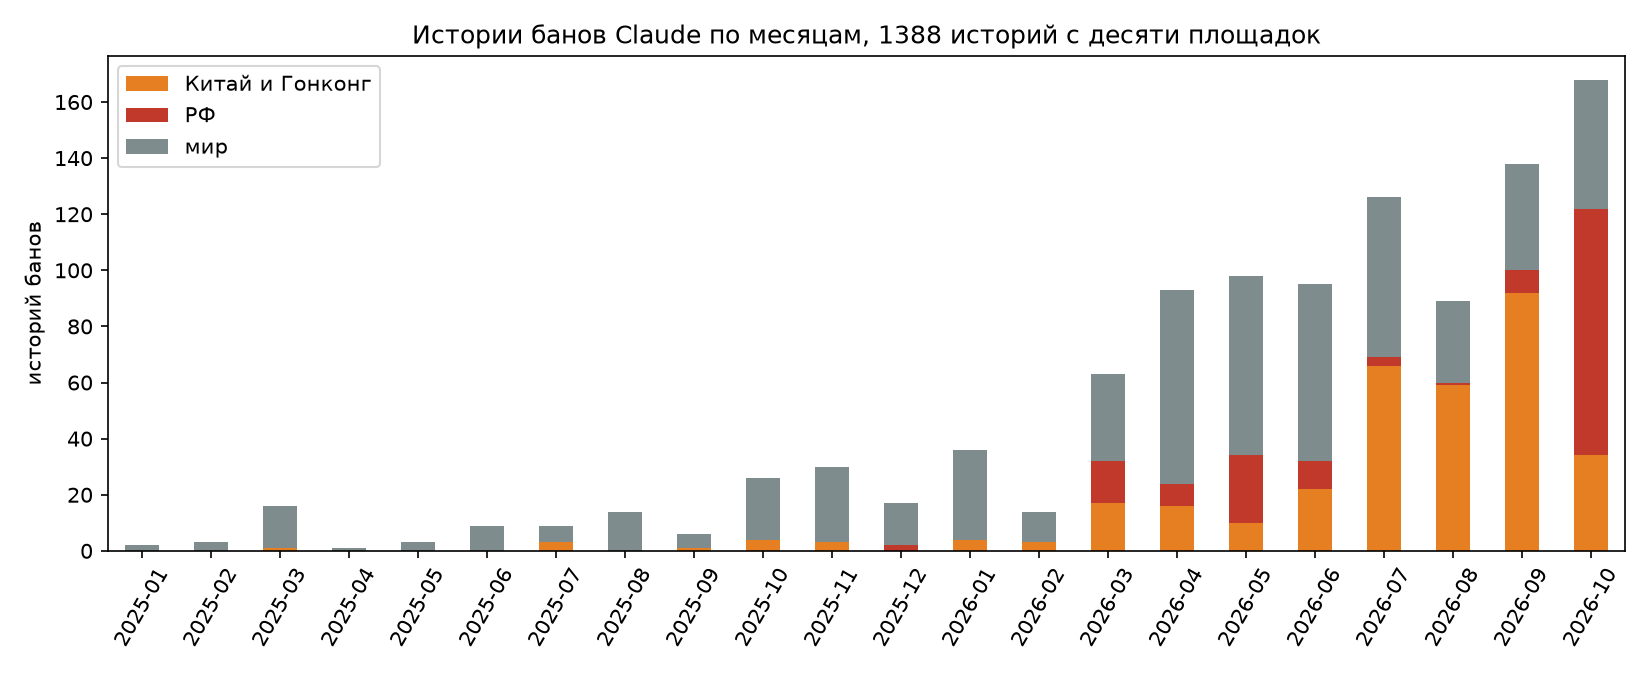
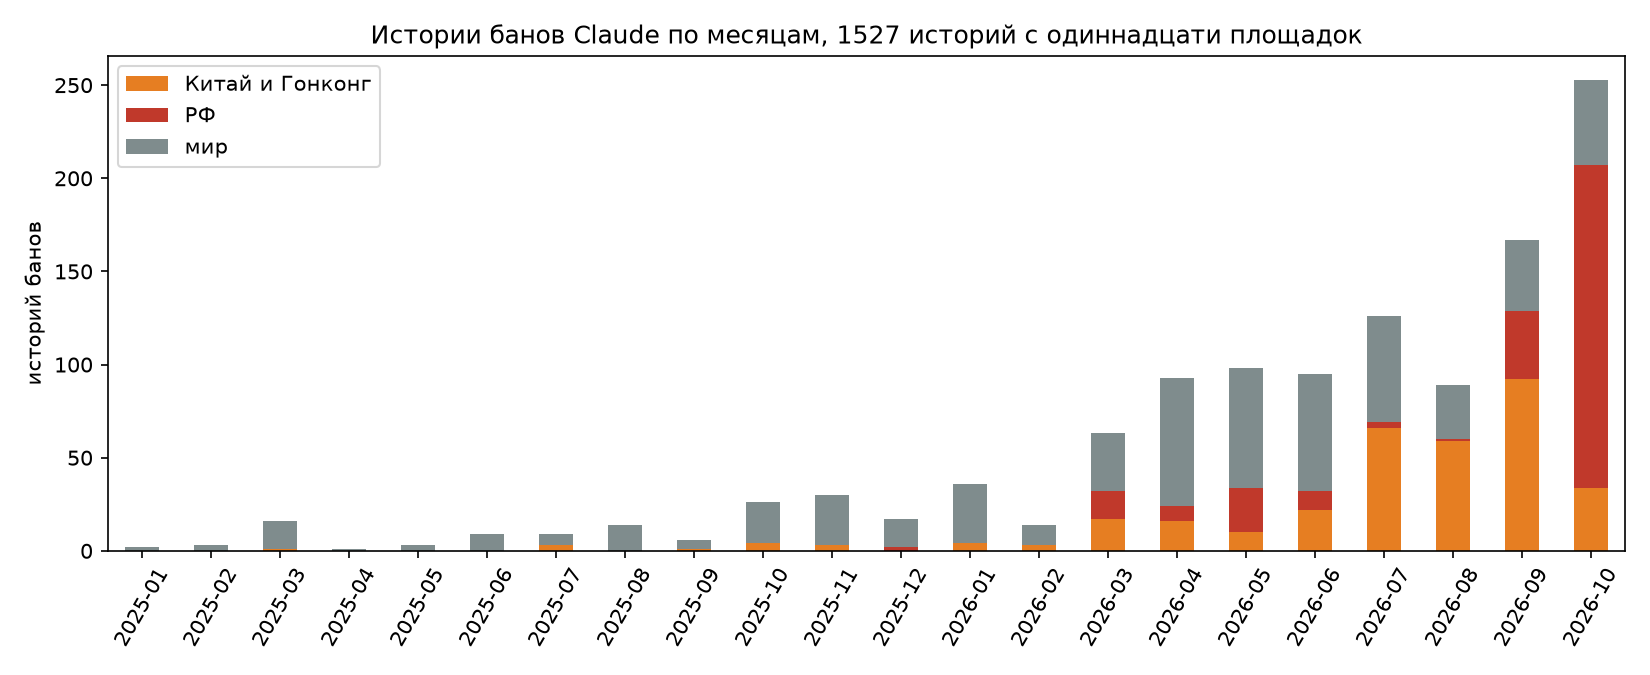
1527 историй: 22 публичных Telegram-чата и полные ветки комментариев

diff --git a/groups.py b/groups.py
@@ -138,7 +138,7 @@ ax.set_xticklabels([x.strftime("%Y-%m") for x in mo.index], rotation=60)
 ax.set_ylabel("историй банов")
 ax.set_xlabel("")
 ax.legend(title=None)
-ax.set_title("Истории банов Claude по месяцам, 1388 историй с десяти площадок")
+ax.set_title("Истории банов Claude по месяцам, 1527 историй с одиннадцати площадок")
 plt.tight_layout()
 plt.savefig(HERE / "results" / "bans_by_month_groups.png", dpi=150)
 plt.close()

diff --git a/method.md b/method.md
@@ -1,23 +1,23 @@
 # Кого банят: метод
 
-Собрано 05–06.10.2026: основной сбор 05.10, дополнительный сбор о волне 1 октября 06.10. Оба влиты в один датасет.
+Собрано 05–07.10.2026 в три захода. 05.10 — основной сбор. 06.10 — волна 1 октября по России, Китаю и миру. 07.10 — 22 публичных Telegram-чата и полные ветки комментариев на открытых площадках. Все три захода влиты в один датасет.
 
 ## Что собрано
 
-1388 историй о конкретном аккаунте Claude. Человек рассказывает от первого лица, реже со слов коллеги, что случилось с аккаунтом и как он был устроен. Источники:
+1527 историй о конкретном аккаунте Claude. Человек рассказывает от первого лица, реже со слов коллеги, что случилось с аккаунтом и как он был устроен. Источники:
 
 | Площадка | Кейсов | Как добыты |
 |---|---|---|
 | Reddit (r/ClaudeAI, r/Anthropic, r/ClaudeCode) | 408 | архив Arctic Shift: все посты по дням, отбор регулярками, посты с текстом и подробные комментарии |
 | V2EX | 337 | поиск sov2ex, API тем; выборочно сверено |
+| Telegram | 204 | 22 публичных чата про нейросети, выгруженные по сообщениям через веб-превью (около 61 тыс. сообщений, 01.09 или с середины сентября — 06.10); посты каналов (t.me/s); чат комментариев к посту о волне 01.10 (27 историй, ники не записывались) |
 | linux.do | 200 | темы по ссылкам из поиска и спискам тегов, чтение через r.jina.ai |
 | GitHub, anthropics/claude-code | 133 | `gh search issues` по 9 фразам |
-| Telegram | 76 | посты каналов (t.me/s); публичный чат одного канала про нейросети, выгруженный целиком за 15.09–06.10; чат комментариев к посту о волне 01.10 (27 историй, ники не записывались) |
-| vc.ru | 75 | страницы статей и комментарии |
+| vc.ru | 76 | страницы статей и полные ветки комментариев |
 | Hacker News | 72 | Algolia API |
-| Habr | 63 | API комментариев |
+| Habr | 67 | API комментариев, полные ветки |
 | X | 15 | ссылки из поиска, текст через api.fxtwitter.com |
-| DTF, блоги | 9 | страницы |
+| DTF, Pikabu, блоги | 15 | страницы |
 
 Схема кодирования — `schema.md`. По каждой истории записаны:
 - исход: бан, временная блокировка, пережил волну, разбан, запрос верификации;
@@ -28,61 +28,65 @@
 - возврат денег и апелляция;
 - что стало с новым аккаунтом.
 
-Признак, который человек не назвал, записывался как `unknown` и не додумывался.
+Признак, который человек не назвал, записан как `unknown` и не додумывался.
 
 Расчёт: `python groups.py` читает `cases.csv` и пишет таблицы в `results/groups.md` и график в `results/bans_by_month_groups.png`. Нужны pandas и matplotlib.
 
 ## Группы
 
-- **РФ** — пользователь из России по тексту или история с русскоязычной площадки: 225.
+- **РФ** — пользователь из России по тексту или история с русскоязычной площадки: 364.
 - **Китай и Гонконг** — по тексту или с linux.do и V2EX: 540.
 - **Мир** — остальное: Reddit, GitHub, HN, X, регион обычно не назван. 623.
 
-Россию и Китай сравниваем вместе: отчёт Anthropic (стр. 153–154) ставит их в одну строку, и правила для них одни. Внутри этих групп есть контрольная группа: 232 истории «аккаунт жив».
+Россию и Китай сравниваем вместе: отчёт Anthropic (стр. 153–154) ставит их в одну строку, и правила для них одни. Внутри этих групп есть контрольная группа: 251 история «аккаунт жив».
 
 ## Как читать цифры
 
-**Доля банов** считается как забаненные / (забаненные + выжившие) среди историй, где признак назван. Это доля среди рассказавших, а не вероятность бана. О бане пишут охотнее, чем о том, что всё в порядке, поэтому все доли завышены. Строки одной таблицы сравнимы, если выжившие одинаково охотно пишут и с VPS, и с домашнего IP.
+**Доля банов** = забаненные / (забаненные + выжившие) среди историй, где признак назван. Это доля среди рассказавших, а не вероятность бана. О бане пишут охотнее, чем о том, что всё в порядке, поэтому все доли завышены. Строки одной таблицы сравнимы между собой, если выжившие одинаково охотно пишут, скажем, и с VPS, и с домашнего IP.
 
-Для разницы между признаками указан двусторонний точный тест Фишера: строка против остальных строк той же таблицы, а в тексте статьи — попарно.
+Для разницы между признаками указан двусторонний точный тест Фишера. В `groups.md` строка сравнивается со всеми остальными строками той же таблицы, в тексте статьи — попарно.
 
 ## Ограничения
 
-- **Самоотбор.** Пишут пострадавшие и те, кто хочет похвастаться, что выжил. Поэтому датасет показывает, чем отличаются рассказы, а не всех пользователей.
-- **Пропуски.** Тариф известен у 36% историй, оплата у 23%, тип IP у 22%. Таблицы построены только по известным значениям, n указан везде.
+- **Самоотбор.** Пишут пострадавшие и те, кто хочет похвастаться, что выжил. Поэтому датасет показывает, чем отличаются рассказы, а не все пользователи.
+- **Пропуски.** Тариф известен у 35% историй, оплата у 21%, тип IP у 21%. Таблицы построены только по известным значениям, n указан везде.
 - **Кодирование.** Размечал Claude Opus 5.5 по одной схеме. Вторым кодировщиком истории не перепроверялись, V2EX сверен выборочно. Поля, где нужно толкование (heavy usage, стабильность IP), менее надёжны, чем тариф и оплата.
-- **Дубликаты.** Одинаковые ссылки и одинаковые истории одного автора на разных площадках сведены в один кейс. Ники не проверялись, поэтому повторы возможны.
+- **Дубликаты.** Одинаковые ссылки и одинаковые истории одного автора на разных площадках сведены в один кейс. Ники не проверялись, повторы возможны. Метки авторов в выгрузках чатов сравнимы только внутри одного файла.
+- **Чаты.** При выгрузке Telegram отвечал отказами по лимиту запросов. Пропуски перезапрашивались, но в хвостах выгрузок могли остаться дыры. Два самых больших чата выгружены только за окно волны 29.09–06.10, поэтому в базовую линию по дням они не входят.
 - **Мир ≠ Россия.** Россиян среди историй с Reddit, GitHub, HN и X почти нет. Эта группа показывает, как банят в поддерживаемых странах, но не как банят россиян.
 - **Удалённые посты.** На Reddit 515 из 1374 отобранных постов удалены, скорее всего модераторами. Поэтому r/ClaudeAI недосчитывает.
 - **Китайский рынок.** В Китае большая доля купленных аккаунтов и перепродажи. Это сдвигает «оплату чужими деньгами» вверх по сравнению с Россией.
 
 ## Что подтверждено проверкой значимости
 
-Россия + Китай и Гонконг, 732 истории с исходом бан/жив.
+Россия + Китай и Гонконг, 865 историй с исходом бан/жив.
 
 | Признак | Историй | Забанены | p |
 |---|---|---|---|
-| Max 20x против Pro | 77 и 108 | 79% и 56% | 0,001 |
-| Своя карта против виртуальной карты, перекупщика или подарка | 52 и 94 | 48% и 69% | 0,014 |
-| Свой сервер в дата-центре против резидентного IP | 82 и 56 | 38% и 57% | 0,036 |
-| Аккаунт младше месяца против остальных | 162 | 72% | 0,022 |
+| Max 20x против Pro | 99 и 112 | 84% и 54% | < 0,001 |
+| Своя карта против виртуальной карты, перекупщика или подарка | 58 и 98 | 52% и 69% | 0,039 |
+| Аккаунт младше месяца против остальных | 172 | 73% | 0,047 |
 
 **По группам отдельно.**
-- У россиян и китайцев разница по оплате идёт в одну сторону: 46% против 70% и 50% против 69%. Каждая группа по отдельности до значимости не дотягивает (p = 0,08 и 0,13).
-- Разница по тарифу у россиян — 91% против 71% (p = 0,08), у китайцев — 62% против 53% (p = 0,41).
-- Разница по IP у россиян отсутствует: 41% против 45%. У китайцев она значима: 36% против 60%, p = 0,03.
+- **Тариф.** У россиян Max 20x против Pro — 63 из 67 против 11 из 18 (p = 0,001). У китайцев — 63% против 53% (p = 0,41).
+- **Оплата.** Разница идёт в одну сторону: у россиян 53% против 70%, у китайцев 50% против 69%. По отдельности каждая не значима (p = 0,16 и 0,13).
+- **Свой сервер против резидентного IP.** Вместе 44% против 57% (p = 0,13). У россиян разницы нет. У китайцев 36% против 60% (p = 0,03).
 
 **Не различаются:**
-- стабильный и меняющийся IP: 38% и 50%, p = 0,12;
-- Claude Code и несколько аккаунтов: 70% и 70%;
-- аккаунт старше года и аккаунт младше месяца: 71% и 72%.
+- стабильный и меняющийся IP: 40% и 49%, p = 0,23;
+- Claude Code и несколько аккаунтов: 70% и 72%;
+- аккаунт старше года и аккаунт младше месяца: 72% и 73%. Реже всего банят аккаунты от месяца до полугода — 54%.
 
 ## Волна 1 октября: профиль по дням
 
 | Где | Как считали | Итог |
 |---|---|---|
-| Русскоязычные площадки (Habr, vc.ru, DTF, Telegram, СМИ) | | истории банов по дате поста; публичный чат одного Telegram-канала выгружен целиком (~6 700 сообщений) | 15–29.09 — 2 истории за 15 дней; 01.10 — 36; 02.10 — 19. В чате 0 за две недели до волны и 15 за 01.10. 48 публикаций |
-| Reddit, GitHub, HN | | посты, комментарии и issues о бане по дням, регулярками | Reddit: комментариев о бане за 01.10 в 11 раз больше среднего дня сентября. На GitHub и HN всплеска нет |
-| V2EX, linux.do, СМИ Гонконга | | темы о бане по заголовкам, только с тегами claude/anthropic | 01–22.09 — 1,6 темы в день, с 23.09 (на следующий день после выхода Opus 5.5) — 6,6, в 4 раза больше: одна волна до 06.10 без отдельного пика 1 октября. СМИ Гонконга числа не называют |
+| 22 публичных Telegram-чата про нейросети (raw/wave_tg_*_daily.csv) | истории о собственном бане по дням | в 20 чатах, выгруженных с середины сентября: 1 история в день за 16–29.09, 38 за 01.10; во всех 22 чатах — 50 за 01.10 |
+| Хабр, vc.ru, DTF (raw/wave_web_daily.csv) | истории банов по дате поста | 0,21 в день за 01–29.09, 20 за 01.10 |
+| Reddit, GitHub, HN (raw/oct1_world_*.csv) | посты, комментарии и issues о бане по дням, регулярками | комментариев о бане на Reddit за 01.10 в 11 раз больше среднего дня сентября; на GitHub и HN всплеска нет |
+| V2EX, linux.do, СМИ Гонконга (raw/oct1_cn_*.csv) | темы о бане по заголовкам | с 23.09, на следующий день после выхода Opus 5.5, в 4 раза больше, чем 01–22.09; одна волна без отдельного пика 1 октября; СМИ Гонконга числа не называют |
+| После 01.10 (raw/wave_after_notes.md) | все источники | новой волны нет: со 02.10 фон, баны поштучно; заявлений Anthropic нет |
 
-Счёт по регуляркам шумный, а базовая линия по России почти нулевая. Поэтому множитель «в N раз» для России не считаем и даём абсолютные числа.
+Всего о волне 1 октября в датасете 157 историй россиян: 122 бана, 33 выживших, 2 временные блокировки. На апелляции — 18 отказов и 1 разбан.
+
+Счёт по регуляркам шумный, а базовая линия по открытым площадкам почти нулевая. Поэтому множитель «в N раз» для России не считаем и даём абсолютные числа.

diff --git a/results/groups.md b/results/groups.md
@@ -1,6 +1,6 @@
 # Кого банят: расчёт по группам
 
-Кейсов: 1388. Группа «РФ» — пользователь из России по тексту или кейс с русскоязычной площадки; «Китай и Гонконг» — по тексту или с linux.do/V2EX; «мир» — остальное (Reddit, GitHub, HN, X, регион обычно не назван).
+Кейсов: 1527. Группа «РФ» — пользователь из России по тексту или кейс с русскоязычной площадки; «Китай и Гонконг» — по тексту или с linux.do/V2EX; «мир» — остальное (Reddit, GitHub, HN, X, регион обычно не назван).
 
 Доля банов = забаненные / (забаненные + выжившие) среди историй, где признак назван. Это доля среди рассказчиков, а не вероятность бана: выжившие пишут реже. Сравнивать можно строки внутри одной таблицы.
 
@@ -9,59 +9,60 @@
 | group | banned | kyc_prompt | locked | survived | unbanned | всего |
 |---|---|---|---|---|---|---|
 | Китай и Гонконг | 338 | 6 | 3 | 176 | 17 | 540 |
-| РФ | 157 | 4 | 2 | 56 | 6 | 225 |
+| РФ | 270 | 8 | 3 | 75 | 8 | 364 |
 | мир | 546 | 2 | 16 | 25 | 34 | 623 |
-| всего | 1041 | 12 | 21 | 257 | 57 | 1388 |
+| всего | 1154 | 16 | 22 | 276 | 59 | 1527 |
 
-## РФ: забаненные и выжившие (n = 215)
+## РФ: забаненные и выжившие (n = 348)
 
-### тариф (известно в 76 историях)
+### тариф (известно в 113 историях)
 
 | plan_group | забанены | выжили | всего | доля банов, % | p (против остальных) |
 |---|---|---|---|---|---|
-| Max 20x | 41 | 4 | 45 | 91 | 0.007 |
-| Pro | 10 | 4 | 14 | 71 | 0.457 |
-| Max 5x | 7 | 4 | 11 | 64 | 0.212 |
-| Free | 1 | 3 | 4 | 25 | 0.023 |
+| Max 20x | 63 | 4 | 67 | 94 | 0.000 |
+| Team/Enterprise | 4 | 1 | 5 | 80 | 1.000 |
+| Max 5x | 10 | 5 | 15 | 67 | 0.138 |
+| Free | 5 | 3 | 8 | 62 | 0.148 |
+| Pro | 11 | 7 | 18 | 61 | 0.018 |
 
-### оплата (известно в 75 историях)
+### оплата (известно в 88 историях)
 
 | pay_group | забанены | выжили | всего | доля банов, % | p (против остальных) |
 |---|---|---|---|---|---|
-| чужие деньги | 30 | 13 | 43 | 70 | 0.058 |
-| App Store / Google Play | 2 | 2 | 4 | 50 | 1.000 |
-| своя карта | 13 | 15 | 28 | 46 | 0.089 |
+| чужие деньги | 33 | 14 | 47 | 70 | 0.127 |
+| App Store / Google Play | 4 | 3 | 7 | 57 | 1.000 |
+| своя карта | 18 | 16 | 34 | 53 | 0.177 |
 
-### выход в интернет (известно в 58 историях)
+### выход в интернет (известно в 73 историях)
 
 | ip_group | забанены | выжили | всего | доля банов, % | p (против остальных) |
 |---|---|---|---|---|---|
-| общий VPN | 12 | 7 | 19 | 63 | 0.263 |
-| резидентный / домашний | 5 | 6 | 11 | 45 | 1.000 |
-| свой VPS | 11 | 16 | 27 | 41 | 0.292 |
+| общий VPN | 12 | 8 | 20 | 60 | 0.610 |
+| свой VPS | 22 | 19 | 41 | 54 | 1.000 |
+| резидентный / домашний | 5 | 6 | 11 | 45 | 0.530 |
 
-### IP стабилен (известно в 63 историях)
+### IP стабилен (известно в 77 историях)
 
 | ip_stable | забанены | выжили | всего | доля банов, % | p (против остальных) |
 |---|---|---|---|---|---|
-| no | 16 | 12 | 28 | 57 | 0.081 |
-| yes | 12 | 23 | 35 | 34 | 0.081 |
+| no | 18 | 16 | 34 | 53 | 0.259 |
+| yes | 17 | 26 | 43 | 40 | 0.259 |
 
-### возраст аккаунта (известно в 76 историях)
+### возраст аккаунта (известно в 104 историях)
 
 | age_group | забанены | выжили | всего | доля банов, % | p (против остальных) |
 |---|---|---|---|---|---|
-| до месяца | 24 | 4 | 28 | 86 | 0.038 |
-| больше года | 6 | 3 | 9 | 67 | 0.713 |
-| 6–12 мес | 13 | 8 | 21 | 62 | 0.396 |
-| 1–6 мес | 11 | 7 | 18 | 61 | 0.373 |
+| до месяца | 33 | 5 | 38 | 87 | 0.059 |
+| больше года | 8 | 3 | 11 | 73 | 0.723 |
+| 6–12 мес | 21 | 9 | 30 | 70 | 0.448 |
+| 1–6 мес | 17 | 8 | 25 | 68 | 0.294 |
 
-### автоматизация (известно в 33 историях)
+### автоматизация (известно в 58 историях)
 
 | automation | забанены | выжили | всего | доля банов, % | p (против остальных) |
 |---|---|---|---|---|---|
-| claude_code | 13 | 9 | 22 | 59 | 1.000 |
-| multi_account | 3 | 5 | 8 | 38 | 0.238 |
+| multi_account | 21 | 9 | 30 | 70 | 1.000 |
+| claude_code | 14 | 9 | 23 | 61 | 0.385 |
 
 
 ## Китай и Гонконг: забаненные и выжившие (n = 517)
@@ -119,60 +120,60 @@
 | none | 13 | 11 | 24 | 54 | 0.104 |
 
 
-## РФ + Китай и Гонконг: забаненные и выжившие (n = 732)
+## РФ + Китай и Гонконг: забаненные и выжившие (n = 865)
 
-### тариф (известно в 265 историях)
+### тариф (известно в 302 историях)
 
 | plan_group | забанены | выжили | всего | доля банов, % | p (против остальных) |
 |---|---|---|---|---|---|
-| Max 20x | 61 | 16 | 77 | 79 | 0.006 |
-| Max 5x | 26 | 9 | 35 | 74 | 0.343 |
-| Free | 24 | 9 | 33 | 73 | 0.554 |
-| Pro | 60 | 48 | 108 | 56 | 0.001 |
-| Team/Enterprise | 5 | 4 | 9 | 56 | 0.485 |
-| API | 1 | 2 | 3 | 33 | 0.257 |
+| Max 20x | 83 | 16 | 99 | 84 | 0.000 |
+| Free | 28 | 9 | 37 | 76 | 0.449 |
+| Max 5x | 29 | 10 | 39 | 74 | 0.578 |
+| Team/Enterprise | 7 | 5 | 12 | 58 | 0.524 |
+| Pro | 61 | 51 | 112 | 54 | 0.000 |
+| API | 1 | 2 | 3 | 33 | 0.225 |
 
-### оплата (известно в 272 историях)
+### оплата (известно в 285 историях)
 
 | pay_group | забанены | выжили | всего | доля банов, % | p (против остальных) |
 |---|---|---|---|---|---|
-| чужие деньги | 65 | 29 | 94 | 69 | 0.088 |
-| App Store / Google Play | 78 | 48 | 126 | 62 | 1.000 |
-| своя карта | 25 | 27 | 52 | 48 | 0.027 |
+| чужие деньги | 68 | 30 | 98 | 69 | 0.094 |
+| App Store / Google Play | 80 | 49 | 129 | 62 | 0.903 |
+| своя карта | 30 | 28 | 58 | 52 | 0.069 |
 
-### выход в интернет (известно в 209 историях)
+### выход в интернет (известно в 224 историях)
 
 | ip_group | забанены | выжили | всего | доля банов, % | p (против остальных) |
 |---|---|---|---|---|---|
-| корпоративный | 3 | 0 | 3 | 100 | 0.111 |
-| резидентный / домашний | 32 | 24 | 56 | 57 | 0.159 |
-| общий VPN | 35 | 33 | 68 | 51 | 0.557 |
-| свой VPS | 31 | 51 | 82 | 38 | 0.016 |
+| корпоративный | 3 | 0 | 3 | 100 | 0.247 |
+| резидентный / домашний | 32 | 24 | 56 | 57 | 0.280 |
+| общий VPN | 35 | 34 | 69 | 51 | 1.000 |
+| свой VPS | 42 | 54 | 96 | 44 | 0.137 |
 
-### IP стабилен (известно в 164 историях)
+### IP стабилен (известно в 178 историях)
 
 | ip_stable | забанены | выжили | всего | доля банов, % | p (против остальных) |
 |---|---|---|---|---|---|
-| no | 42 | 42 | 84 | 50 | 0.118 |
-| yes | 30 | 50 | 80 | 38 | 0.118 |
+| no | 44 | 46 | 90 | 49 | 0.232 |
+| yes | 35 | 53 | 88 | 40 | 0.232 |
 
-### возраст аккаунта (известно в 306 историях)
+### возраст аккаунта (известно в 334 историях)
 
 | age_group | забанены | выжили | всего | доля банов, % | p (против остальных) |
 |---|---|---|---|---|---|
-| до месяца | 116 | 46 | 162 | 72 | 0.022 |
-| больше года | 29 | 12 | 41 | 71 | 0.596 |
-| 6–12 мес | 26 | 17 | 43 | 60 | 0.489 |
-| 1–6 мес | 30 | 30 | 60 | 50 | 0.006 |
+| до месяца | 125 | 47 | 172 | 73 | 0.047 |
+| больше года | 31 | 12 | 43 | 72 | 0.602 |
+| 6–12 мес | 34 | 18 | 52 | 65 | 0.748 |
+| 1–6 мес | 36 | 31 | 67 | 54 | 0.008 |
 
-### автоматизация (известно в 257 историях)
+### автоматизация (известно в 282 историях)
 
 | automation | забанены | выжили | всего | доля банов, % | p (против остальных) |
 |---|---|---|---|---|---|
-| claude_code | 71 | 31 | 102 | 70 | 0.683 |
-| multi_account | 72 | 31 | 103 | 70 | 0.587 |
-| api_proxy | 15 | 10 | 25 | 60 | 0.378 |
-| none | 14 | 11 | 25 | 56 | 0.259 |
+| multi_account | 90 | 35 | 125 | 72 | 0.367 |
+| claude_code | 72 | 31 | 103 | 70 | 0.894 |
+| api_proxy | 16 | 10 | 26 | 62 | 0.380 |
+| none | 14 | 11 | 25 | 56 | 0.173 |
 
 
 ## мир: забаненные и выжившие (n = 587)
@@ -247,11 +248,11 @@
 | признак | РФ | Китай и Гонконг | мир |
 |---|---|---|---|
 | возраст / «ребёнок» / Yoti | 0 | 4 | 59 |
-| сразу после оплаты / апгрейда / смены карты | 11 | 38 | 66 |
-| VPN / смена IP или страны / поездка | 58 | 58 | 72 |
-| несколько аккаунтов / одна карта на несколько | 12 | 34 | 24 |
+| сразу после оплаты / апгрейда / смены карты | 25 | 38 | 66 |
+| VPN / смена IP или страны / поездка | 82 | 58 | 72 |
+| несколько аккаунтов / одна карта на несколько | 28 | 34 | 24 |
 | автоматизация / -p / сторонние клиенты / реверс-прокси | 4 | 14 | 18 |
-| перекупщик / купленный аккаунт / гифт | 9 | 31 | 4 |
+| перекупщик / купленный аккаунт / гифт | 11 | 31 | 4 |
 | темы запросов (кибер, медицина, Китай, Ascend) | 0 | 2 | 5 |
 
 ## Возвраты (забаненные с известным исходом возврата)
@@ -263,7 +264,7 @@
 | Китай и Гонконг | 2026-H2 | 17 | 18 | 11 |
 | РФ | 2025-H2 | 0 | 0 | 2 |
 | РФ | 2026-H1 | 9 | 4 | 4 |
-| РФ | 2026-H2 | 8 | 15 | 0 |
+| РФ | 2026-H2 | 14 | 26 | 0 |
 | мир | 2025-H1 | 6 | 1 | 0 |
 | мир | 2025-H2 | 22 | 17 | 4 |
 | мир | 2026-H1 | 28 | 18 | 1 |
@@ -280,18 +281,18 @@
 | 2026-06 | 3 | 4 | 0 |
 | 2026-07 | 1 | 0 | 0 |
 | 2026-08 | 1 | 0 | 0 |
-| 2026-09 | 0 | 2 | 0 |
-| 2026-10 | 6 | 13 | 0 |
+| 2026-09 | 2 | 3 | 0 |
+| 2026-10 | 10 | 23 | 0 |
 
 ## Апелляции по группам
 
 | group | accepted | pending | rejected |
 |---|---|---|---|
 | Китай и Гонконг | 12 | 14 | 23 |
-| РФ | 3 | 8 | 13 |
+| РФ | 6 | 12 | 25 |
 | мир | 37 | 182 | 61 |
 
-Истории, где в письме или пересказе упомянут регион/страна: 70; апелляция принята: 0, отклонена: 5.
+Истории, где в письме или пересказе упомянут регион/страна: 77; апелляция принята: 0, отклонена: 6.
 
 
 ## Новый аккаунт после бана
@@ -299,7 +300,7 @@
 | group | alive | banned_fast | kyc_required |
 |---|---|---|---|
 | Китай и Гонконг | 14 | 26 | 1 |
-| РФ | 15 | 8 | 4 |
+| РФ | 25 | 13 | 6 |
 | мир | 19 | 21 | 0 |
 
 ## Недели с наибольшим числом историй банов
@@ -313,8 +314,8 @@
 | 2026-06-29 00:00:00 | 14 | 1 | 19 |
 | 2026-07-06 00:00:00 | 29 | 0 | 15 |
 | 2026-07-20 00:00:00 | 17 | 1 | 20 |
-| 2026-08-03 00:00:00 | 11 | 0 | 15 |
 | 2026-08-10 00:00:00 | 15 | 1 | 11 |
 | 2026-09-14 00:00:00 | 26 | 1 | 4 |
-| 2026-09-28 00:00:00 | 36 | 3 | 13 |
-| 2026-10-05 00:00:00 | 42 | 86 | 55 |
+| 2026-09-21 00:00:00 | 13 | 10 | 6 |
+| 2026-09-28 00:00:00 | 36 | 12 | 13 |
+| 2026-10-05 00:00:00 | 42 | 165 | 55 |

diff --git a/README.md b/README.md
@@ -1,8 +1,8 @@
-# Кого банят в Claude: 1388 историй
+# Кого банят в Claude: 1527 историй
 
-Датасет к статье на Хабре «Я собрал 1388 историй банов Claude. Кого банят и почему» [ссылка — после публикации].
+Датасет к статье на Хабре «Я собрал 1527 историй банов Claude. Кого банят и почему» [ссылка — после публикации].
 
-1388 историй с десяти площадок: Reddit, GitHub, Hacker News, X, Хабр, vc.ru, DTF, Telegram, V2EX и linux.do. В каждой человек рассказывает о своем аккаунте Claude: тариф, способ оплаты, тип выхода в интернет, возраст аккаунта и что с аккаунтом стало. В 1041 историях аккаунт забанили, в 257 он пережил волну. Период — январь 2025 — 6 октября 2026.
+1527 историй с одиннадцати площадок: Reddit, GitHub, Hacker News, X, Хабр, vc.ru, DTF, Pikabu, Telegram, V2EX и linux.do. В каждой человек рассказывает о своем аккаунте Claude: тариф, способ оплаты, тип выхода в интернет, возраст аккаунта и что с аккаунтом стало. В 1154 историях аккаунт забанили, в 276 он пережил волну. Период — январь 2025 — 6 октября 2026.
 
 | Файл | Что внутри |
 |---|---|
